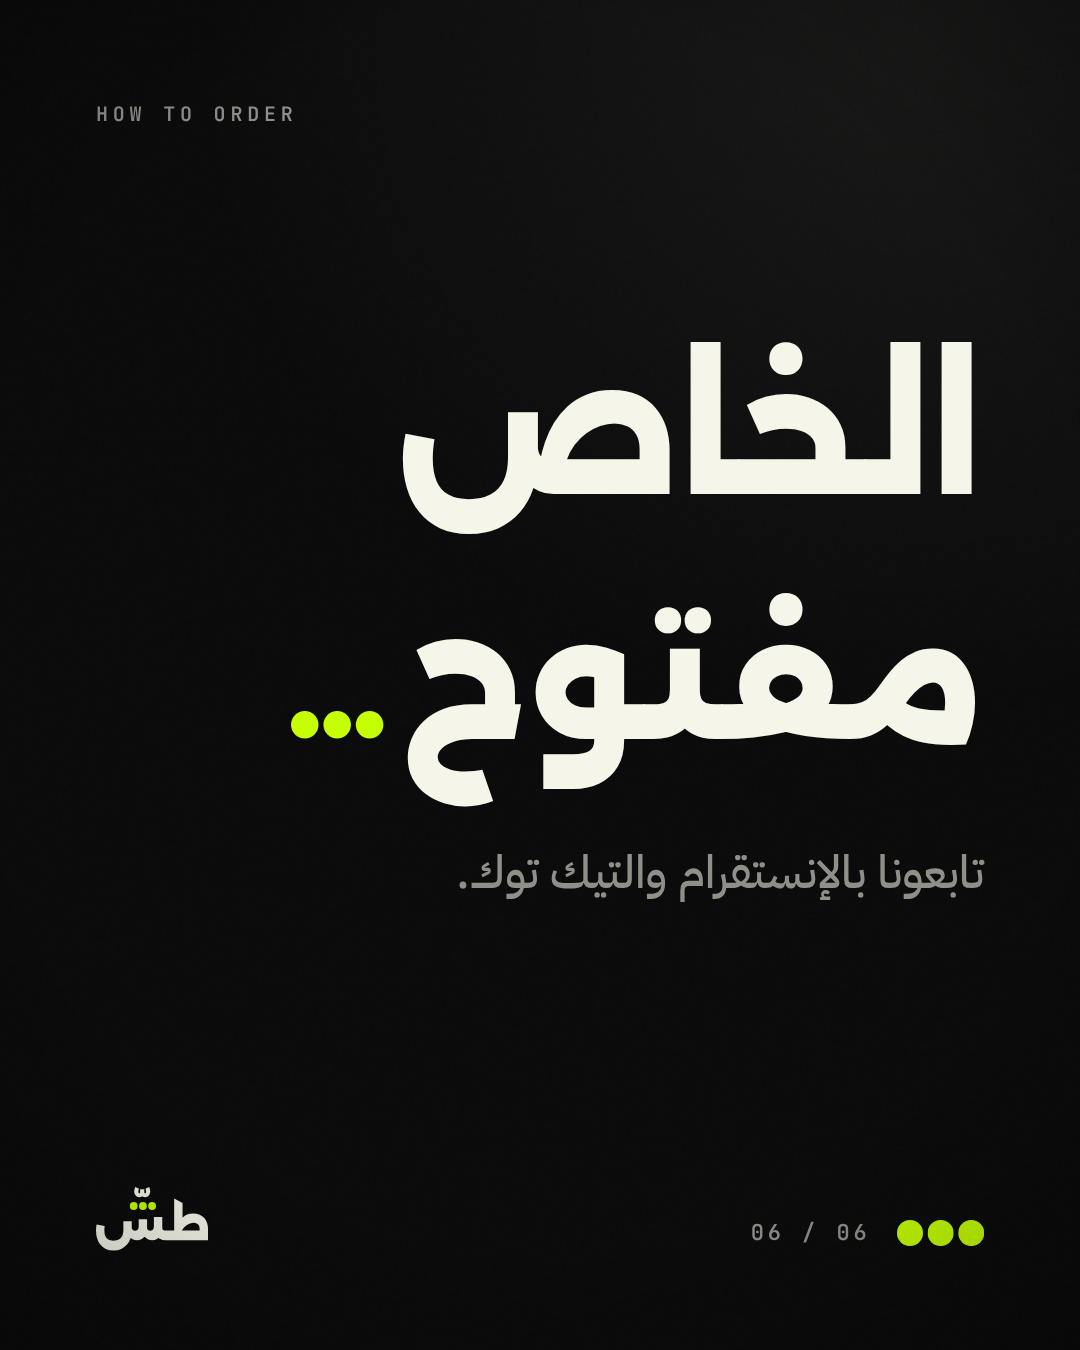
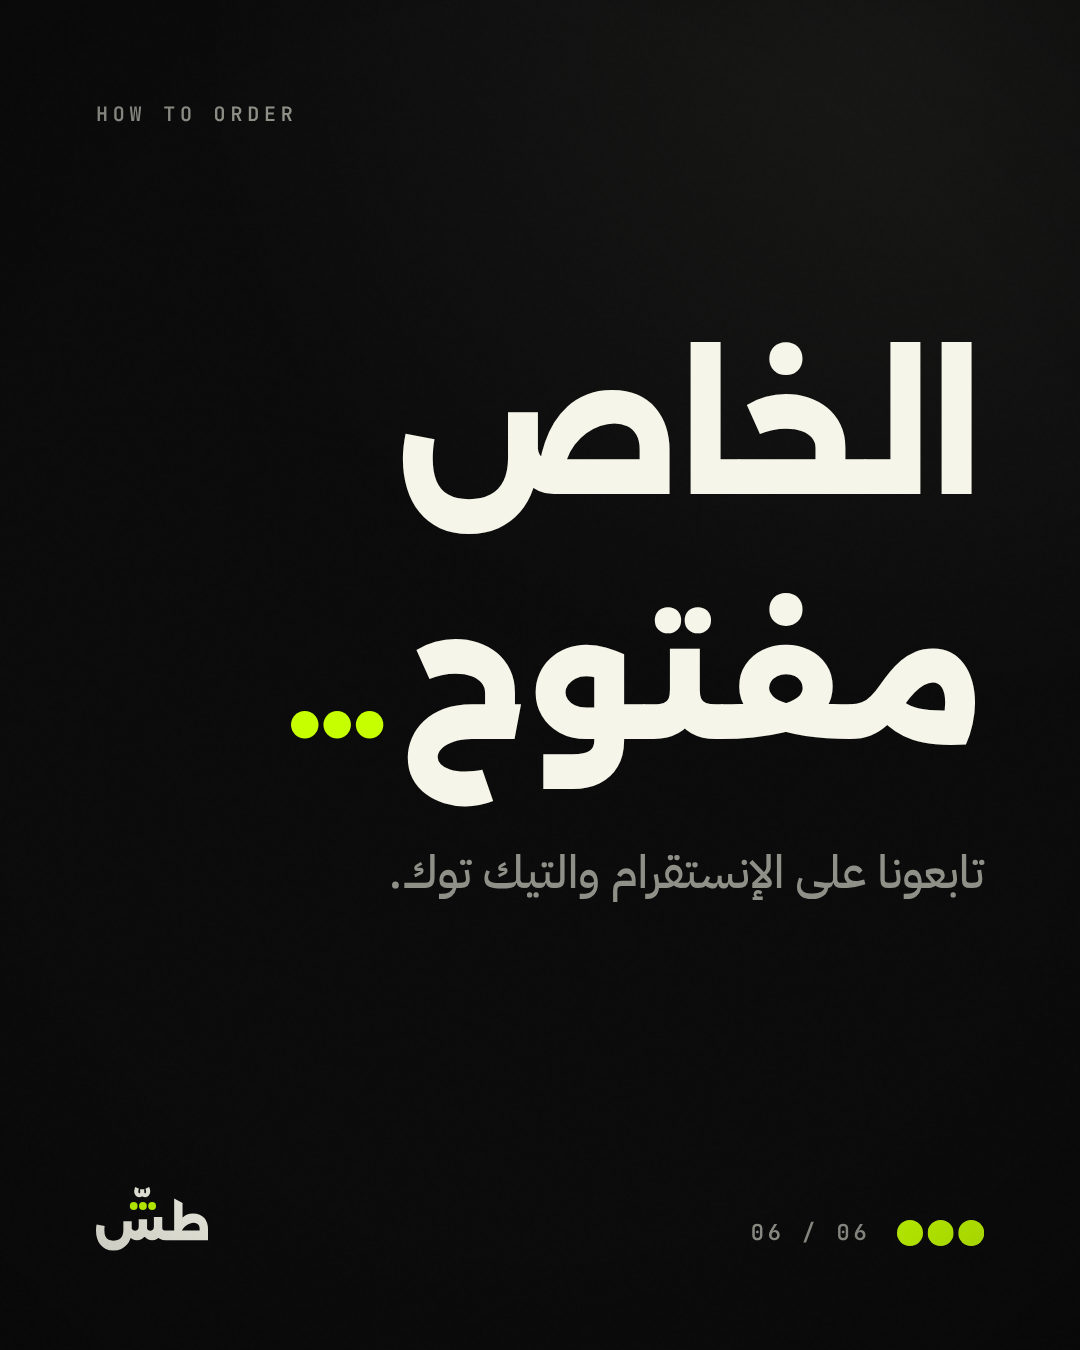
TASH: fix wording — «تابعونا على الإنستقرام والتيك توك»
Claude-Session: https://claude.ai/code/session_01V6x5TZsAm6X1rqhwpVNZeb

Changed region(s): [[0.3667, 0.6222, 0.7944, 0.6844]]

diff --git a/tash/08-instagram/plan/plan.html b/tash/08-instagram/plan/plan.html
@@ -72,7 +72,7 @@ code,.ltr{direction:ltr;unicode-bidi:isolate;font-family:"IBM Plex Mono",monospa
   <li>ادخل مجلد <span class="ltr">01-posts</span>: كل بوست بمجلده ومرقّم (01 لين 09).</li>
   <li>لكل مجلد: <b>Select</b> ← اختر الصور/الفيديو ← زر المشاركة ← <b>Save Image / Save Video</b>. كذا تصير بالاستوديو (Photos).</li>
   <li>نصوص الكابشن: افتح <span class="ltr">caption.txt</span> بكل مجلد، اضغط مطولاً ← Select All ← Copy. (أو انسخها وقت النشر مباشرة.)</li>
-  <li>بإنستقرام: الإعدادات ← <b>Media quality</b> ← فعّل <b>Upload at highest quality</b>. بالتيك توك: عند النشر فعّل <b>High quality upload</b>.</li>
+  <li>في إنستقرام: الإعدادات ← <b>Media quality</b> ← فعّل <b>Upload at highest quality</b>. وفي التيك توك: عند النشر فعّل <b>High quality upload</b>.</li>
 </ol>
 <p class="small">نصيحة: سوِّ ألبوم بالصور اسمه «طشّ — نشر» وحط فيه كل الملفات، يسهّل عليك الاختيار وقت النشر.</p>
 

diff --git a/tash/08-instagram/08-how-to-order-carousel/caption.md b/tash/08-instagram/08-how-to-order-carousel/caption.md
@@ -35,7 +35,7 @@
 | 03 | الخطوة ٢: عرض مكتوب فيه الباقة والسعر والموعد قبل لا نبدأ. |
 | 04 | الخطوة ٣: تثبّت بعربون، نكتب الفكرة والسكربت، وبعد الاعتماد نبدأ الإنتاج. |
 | 05 | الخطوة ٤: تستلم ملف جاهز بأعلى جودة وتنزّله وين ما تبي. |
-| 06 | الخاص مفتوح… تابعونا بالإنستقرام والتيك توك. |
+| 06 | الخاص مفتوح… تابعونا على الإنستقرام والتيك توك. |
 
 ## Notes for this post
 - The steps follow `07-ops/05-process-and-timeline.md` (written offer, 50% deposit, two approval gates, two revision rounds). If ops changes the process, change this post too.
